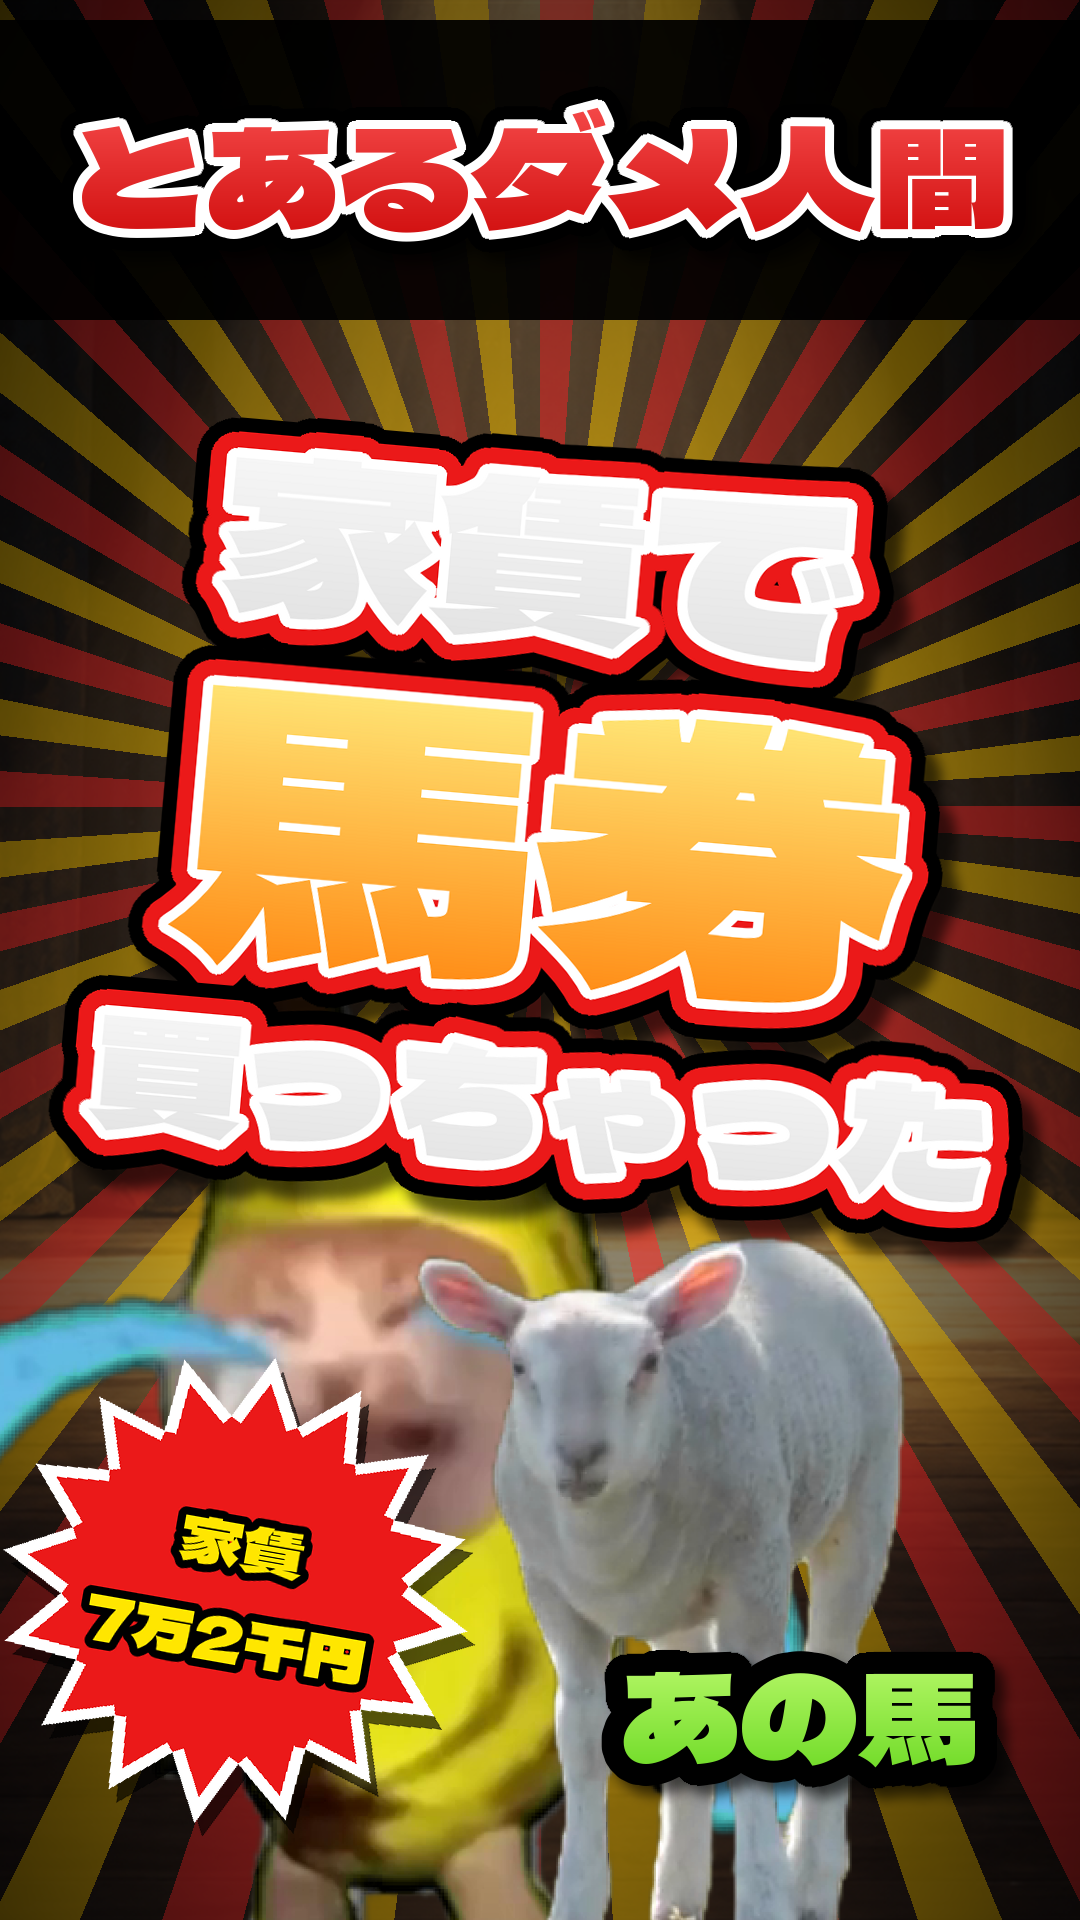
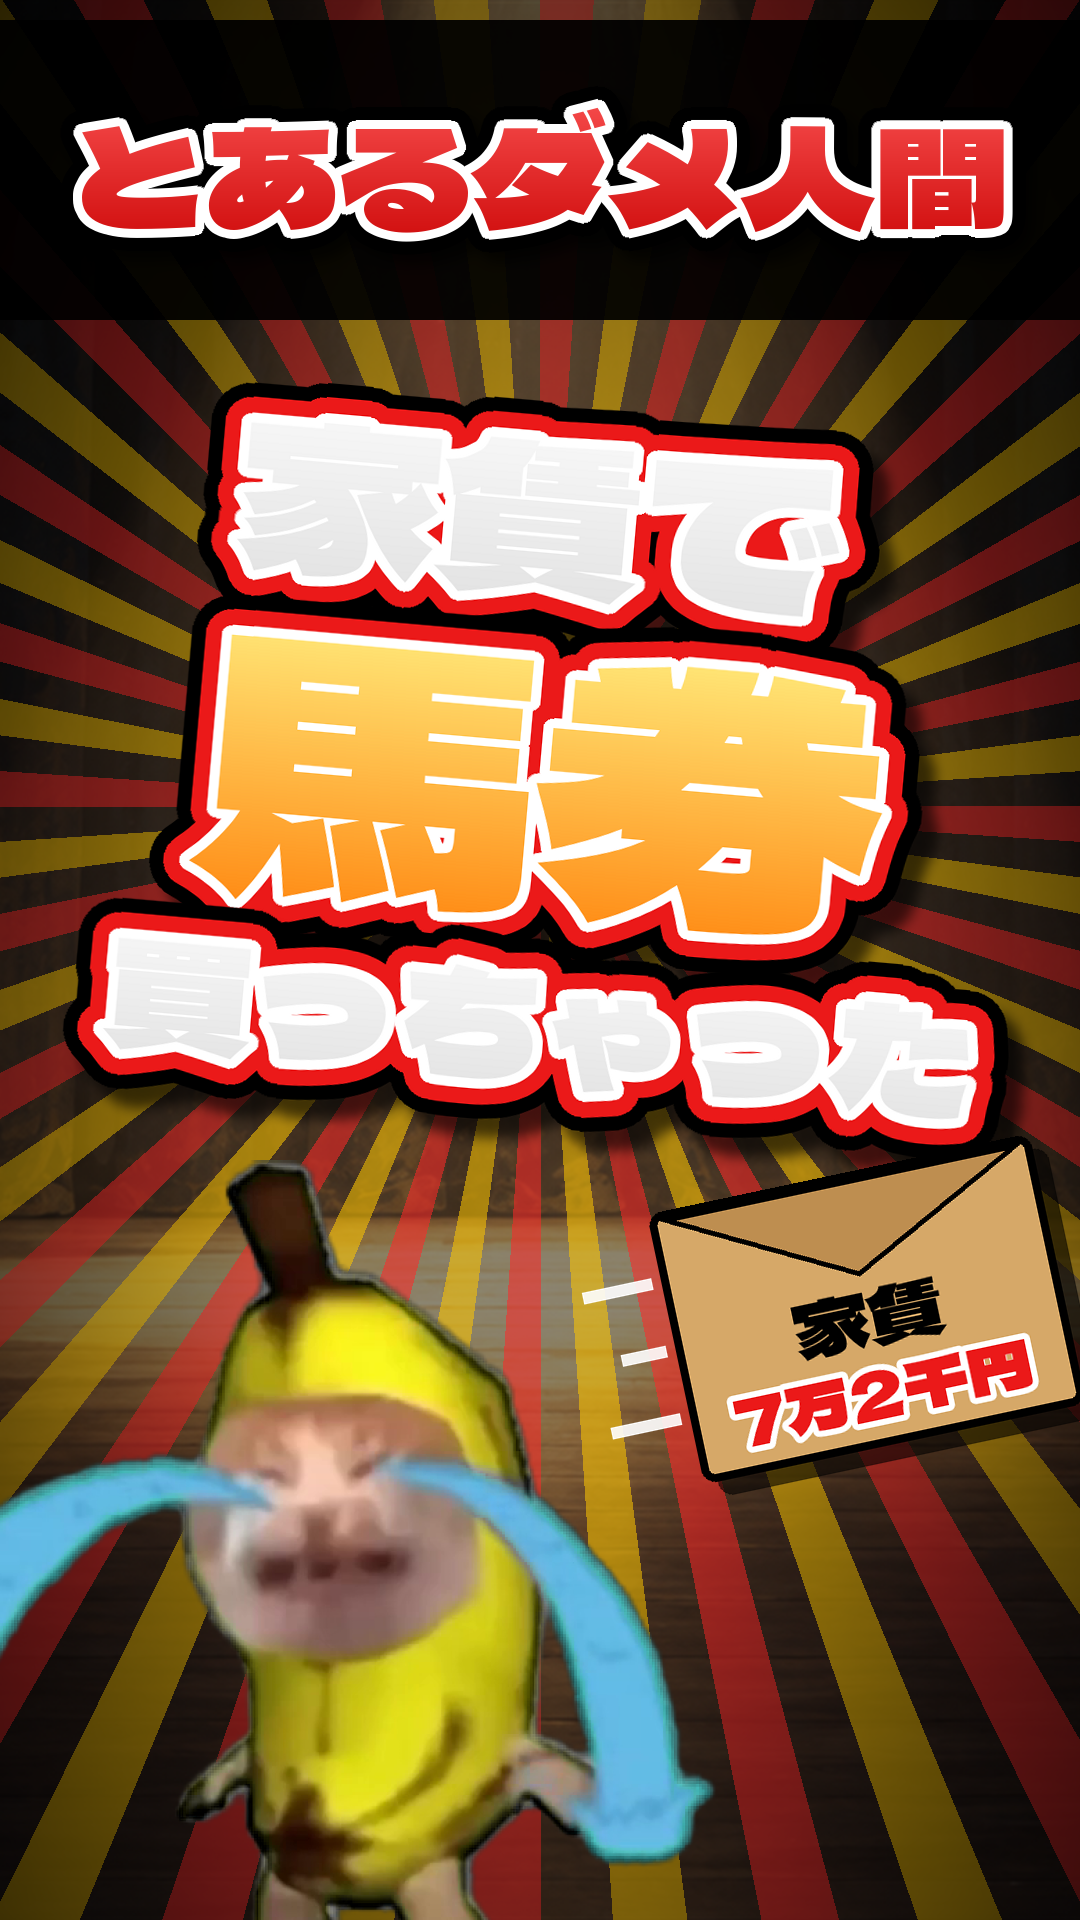
ダメ人間#1 サムネ：あの馬を外し、家賃7万2千円は猫に重ならない飛んでいく茶封筒で

diff --git a/catmeme/make_thumb_dame.py b/catmeme/make_thumb_dame.py
@@ -69,6 +69,22 @@ def burst(text, r=235, n=16, fill=RED, col=YELLOW, size=62):
     return im
 
 
+def envelope(top, money, w=390, h=275):
+    """飛んでいく茶封筒（家賃袋など）。左に流れる線つき。"""
+    m = 90    # 流れる線の分
+    im = Image.new("RGBA", (w + m + 30, h + 30), (0, 0, 0, 0))
+    d = ImageDraw.Draw(im)
+    for i, y in enumerate((0.25, 0.5, 0.75)):
+        d.line([(10 + 25 * (i % 2), h * y), (m - 10, h * y)], fill=WHITE + (230,), width=12)
+    x0 = m
+    d.rounded_rectangle((x0 + 14, 16, x0 + w + 14, h + 16), 14, fill=(0, 0, 0, 150))
+    d.rounded_rectangle((x0, 0, x0 + w, h), 14, fill=(214, 168, 104, 255), outline=BLACK, width=8)
+    d.polygon([(x0 + 6, 6), (x0 + w - 6, 6), (x0 + w / 2, h * 0.38)], fill=(190, 142, 80, 255), outline=BLACK, width=6)
+    d.text((x0 + w / 2, h * 0.52), top, font=P.font("dela", 76), fill=BLACK, anchor="mm")
+    d.text((x0 + w / 2, h * 0.80), money, font=P.font("dela", 66), fill=RED, anchor="mm", stroke_width=6, stroke_fill=WHITE)
+    return im
+
+
 def rays(out, cy, cols=((255, 40, 40), (255, 200, 0)), alpha=0.55, n=48):
     """止まった集中線（放射状）。"""
     im = Image.new("RGBA", (SW, SH), (0, 0, 0, 0))
@@ -87,8 +103,9 @@ def vignette(out, k=0.75):
     out *= (1 - k * np.clip(r - 0.55, 0, 1))[..., None]
 
 
-def make(out_path, top, lines, cats, badge=None, bg="bg06_spotlight"):
-    """lines=[(文字, 大きさ, 中心y, 角度, 上の色, 下の色)]、cats=[(素材, x, 高さ, 反転, 役名)]。"""
+def make(out_path, top, lines, cats, items=(), bg="bg06_spotlight"):
+    """lines=[(文字, 大きさ, 中心y, 角度, 上の色, 下の色)]、cats=[(素材, x, 高さ, 反転, 役名)]、
+    items=[(画像, 中心x, 中心y, 角度)]（爆発バッジ・封筒など。猫ミームに重ならない所に置く）。"""
     out = M.vbg(bg).copy() * 0.55
     rays(out, SH * 0.42)
     vignette(out)
@@ -98,8 +115,8 @@ def make(out_path, top, lines, cats, badge=None, bg="bg06_spotlight"):
             H.put(out, fancy(tag, 120, top=(200, 255, 120), bottom=(90, 210, 20), rims=((0, 0, 0, 22),), shadow=10), x, SH - 200)
     for s, size, y, ang, c1, c2 in lines:
         H.put(out, fancy(s, size, top=c1, bottom=c2, max_w=SW + 40), SW / 2, y, angle=ang)
-    if badge:
-        H.put(out, burst(badge), 235, SH - 330, angle=-10)
+    for im, x, y, ang in items:
+        H.put(out, im, x, y, angle=ang)
     band = Image.new("RGBA", (SW, 300), (0, 0, 0, 235))
     H.put(out, band, SW / 2, 170)
     H.put(out, fancy(top, 170, top=(255, 90, 90), bottom=(200, 0, 0), rims=((255, 255, 255, 9), (0, 0, 0, 22)), shadow=10,
@@ -112,11 +129,11 @@ def make(out_path, top, lines, cats, badge=None, bg="bg06_spotlight"):
 def dame_rent():
     """#1 家賃で馬券買っちゃった。"""
     make(os.path.join(HERE, "thumbs", "short_dame_rent.png"), "とあるダメ人間",
-         [("家賃で", 210, 560, -5, (255, 255, 255), (220, 220, 220)),
-          ("馬券", 360, 850, -5, (255, 250, 140), (255, 120, 0)),
-          ("買っちゃった", 150, 1110, -5, (255, 255, 255), (220, 220, 220))],
-         [("sad_banana_cat_cry", 300, 1050, False, None), ("stand_real_sheep", 800, 880, True, "あの馬")],
-         badge="家賃\n7万2千円")
+         [("家賃で", 200, 520, -5, (255, 255, 255), (220, 220, 220)),
+          ("馬券", 340, 790, -5, (255, 250, 140), (255, 120, 0)),
+          ("買っちゃった", 145, 1030, -5, (255, 255, 255), (220, 220, 220))],
+         [("sad_banana_cat_cry", 290, 800, False, None)],
+         items=[(envelope("家賃", "7万2千円"), 840, 1330, 12)])
 
 
 if __name__ == "__main__":

diff --git a/catmeme/HANDOFF_dame_channel.md b/catmeme/HANDOFF_dame_channel.md
@@ -50,7 +50,7 @@
 - タイトル：`【猫ミーム】` ＋ 短い問いかけ・あるある ＋ 全角スペース ＋ ハッシュタグ5個（`#猫ミーム #shorts` 固定、残りは `#catmemes #猫マニ #あるある` か話題の言葉）
 - 概要欄：**タイトルと同じ文だけ**
 - サムネ：**派手に目立たせる**（`make_thumb_dame.py`）。極太フォント（Dela Gothic One）＋グラデーション＋白・赤の太い縁、
-  赤黄の集中線、爆発バッジ（金額など）、猫ミームと相手役。話ごとに関数を足す（#1 は `dame_rent()`）
+  赤黄の集中線、金額などは封筒・爆発バッジで（猫ミームに重ねない）、猫ミーム。話ごとに関数を足す（#1 は `dame_rent()`）
 - 詳しくは `scripts/short_refstyle_youtube.md`
 
 ## ユーザーとのやりとりのルール（前のセッションから）
